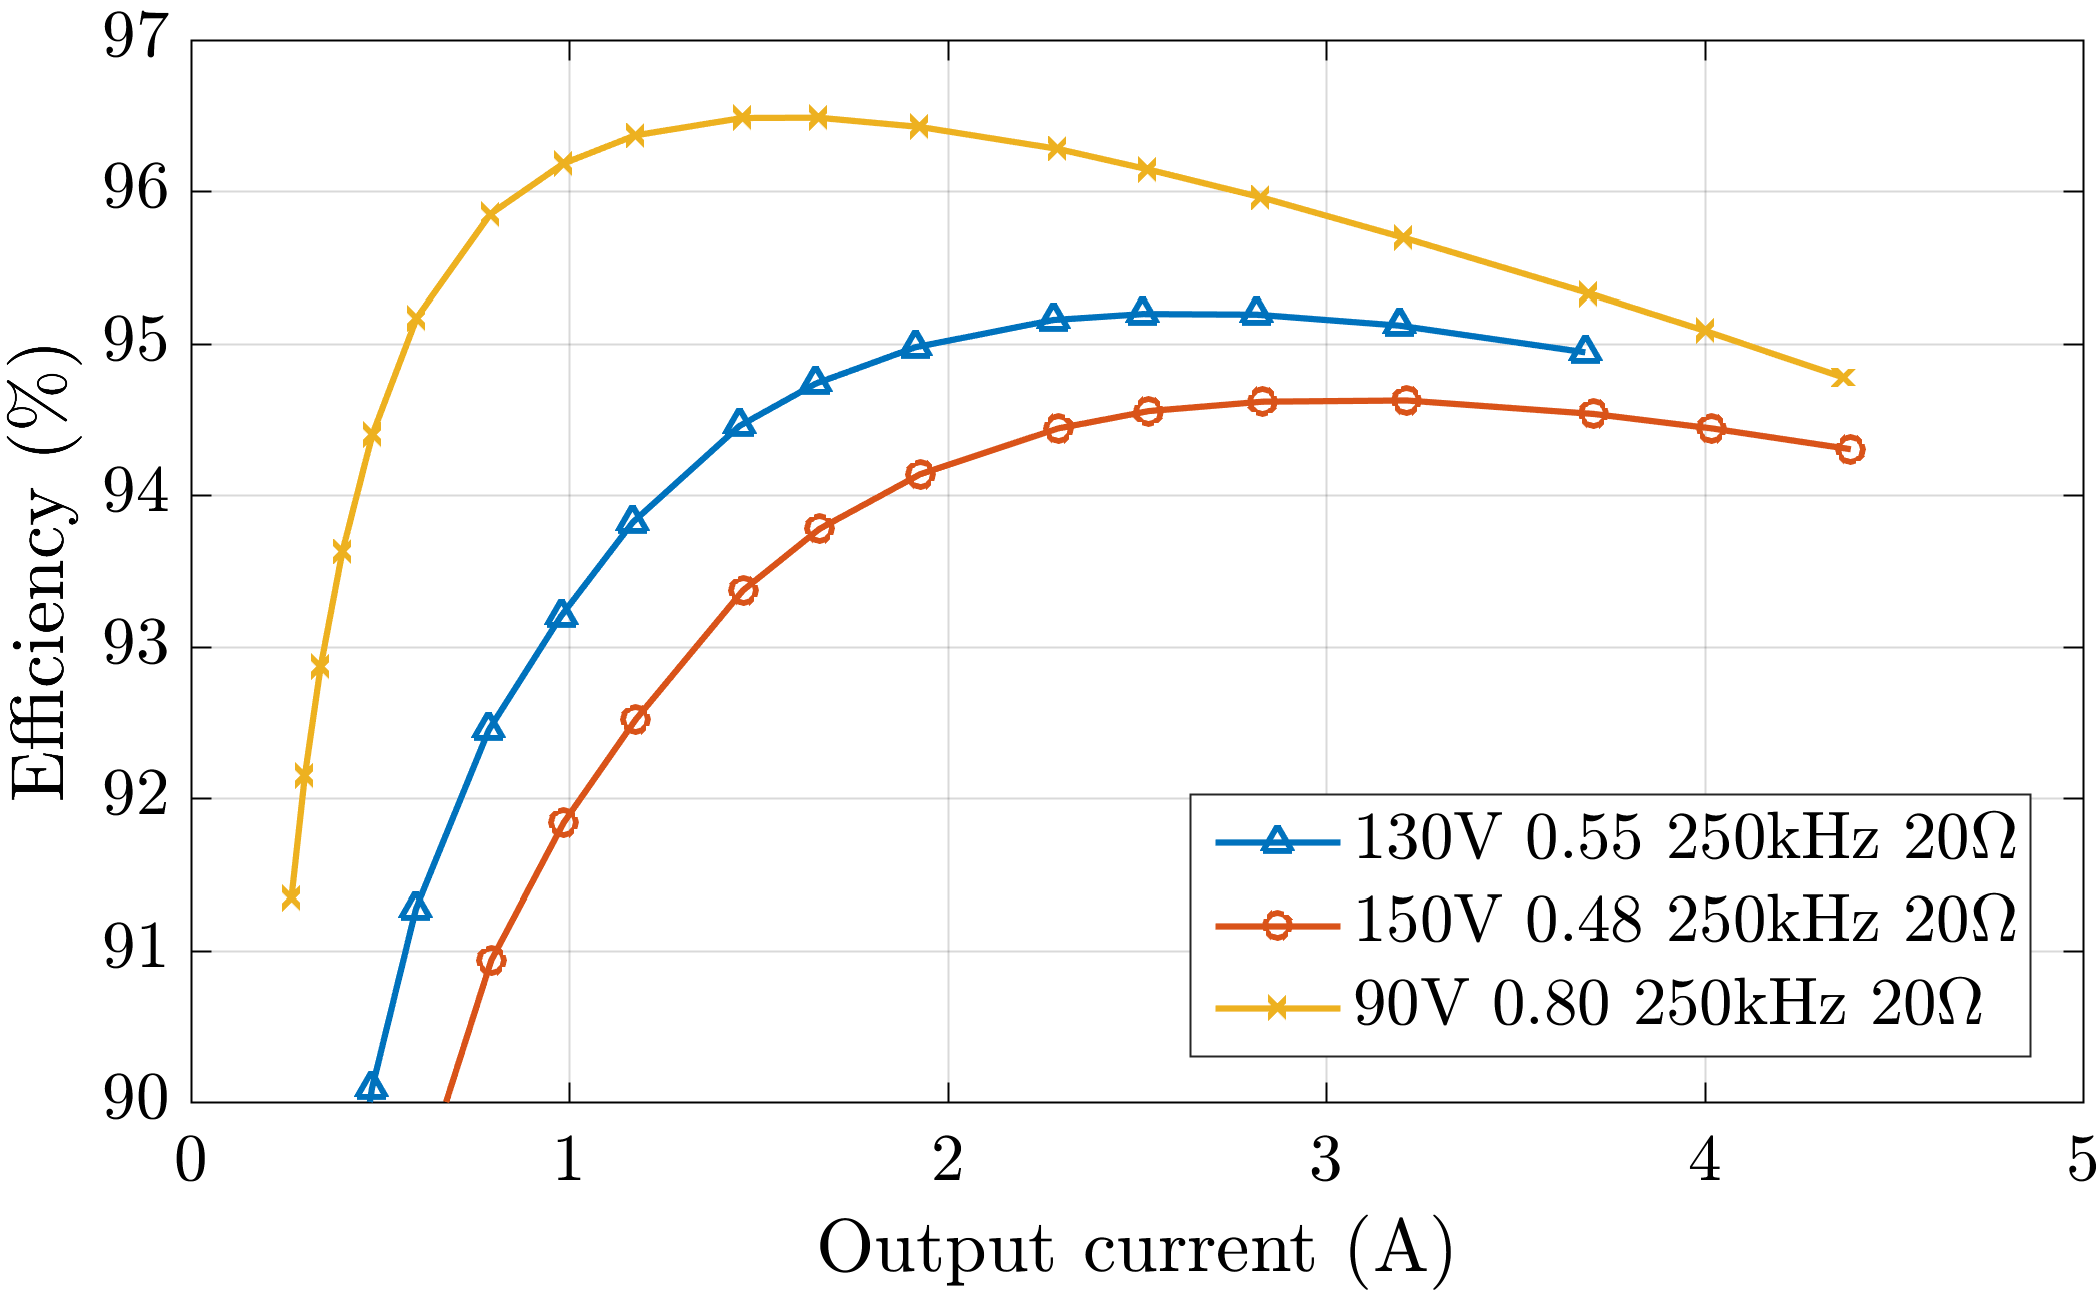
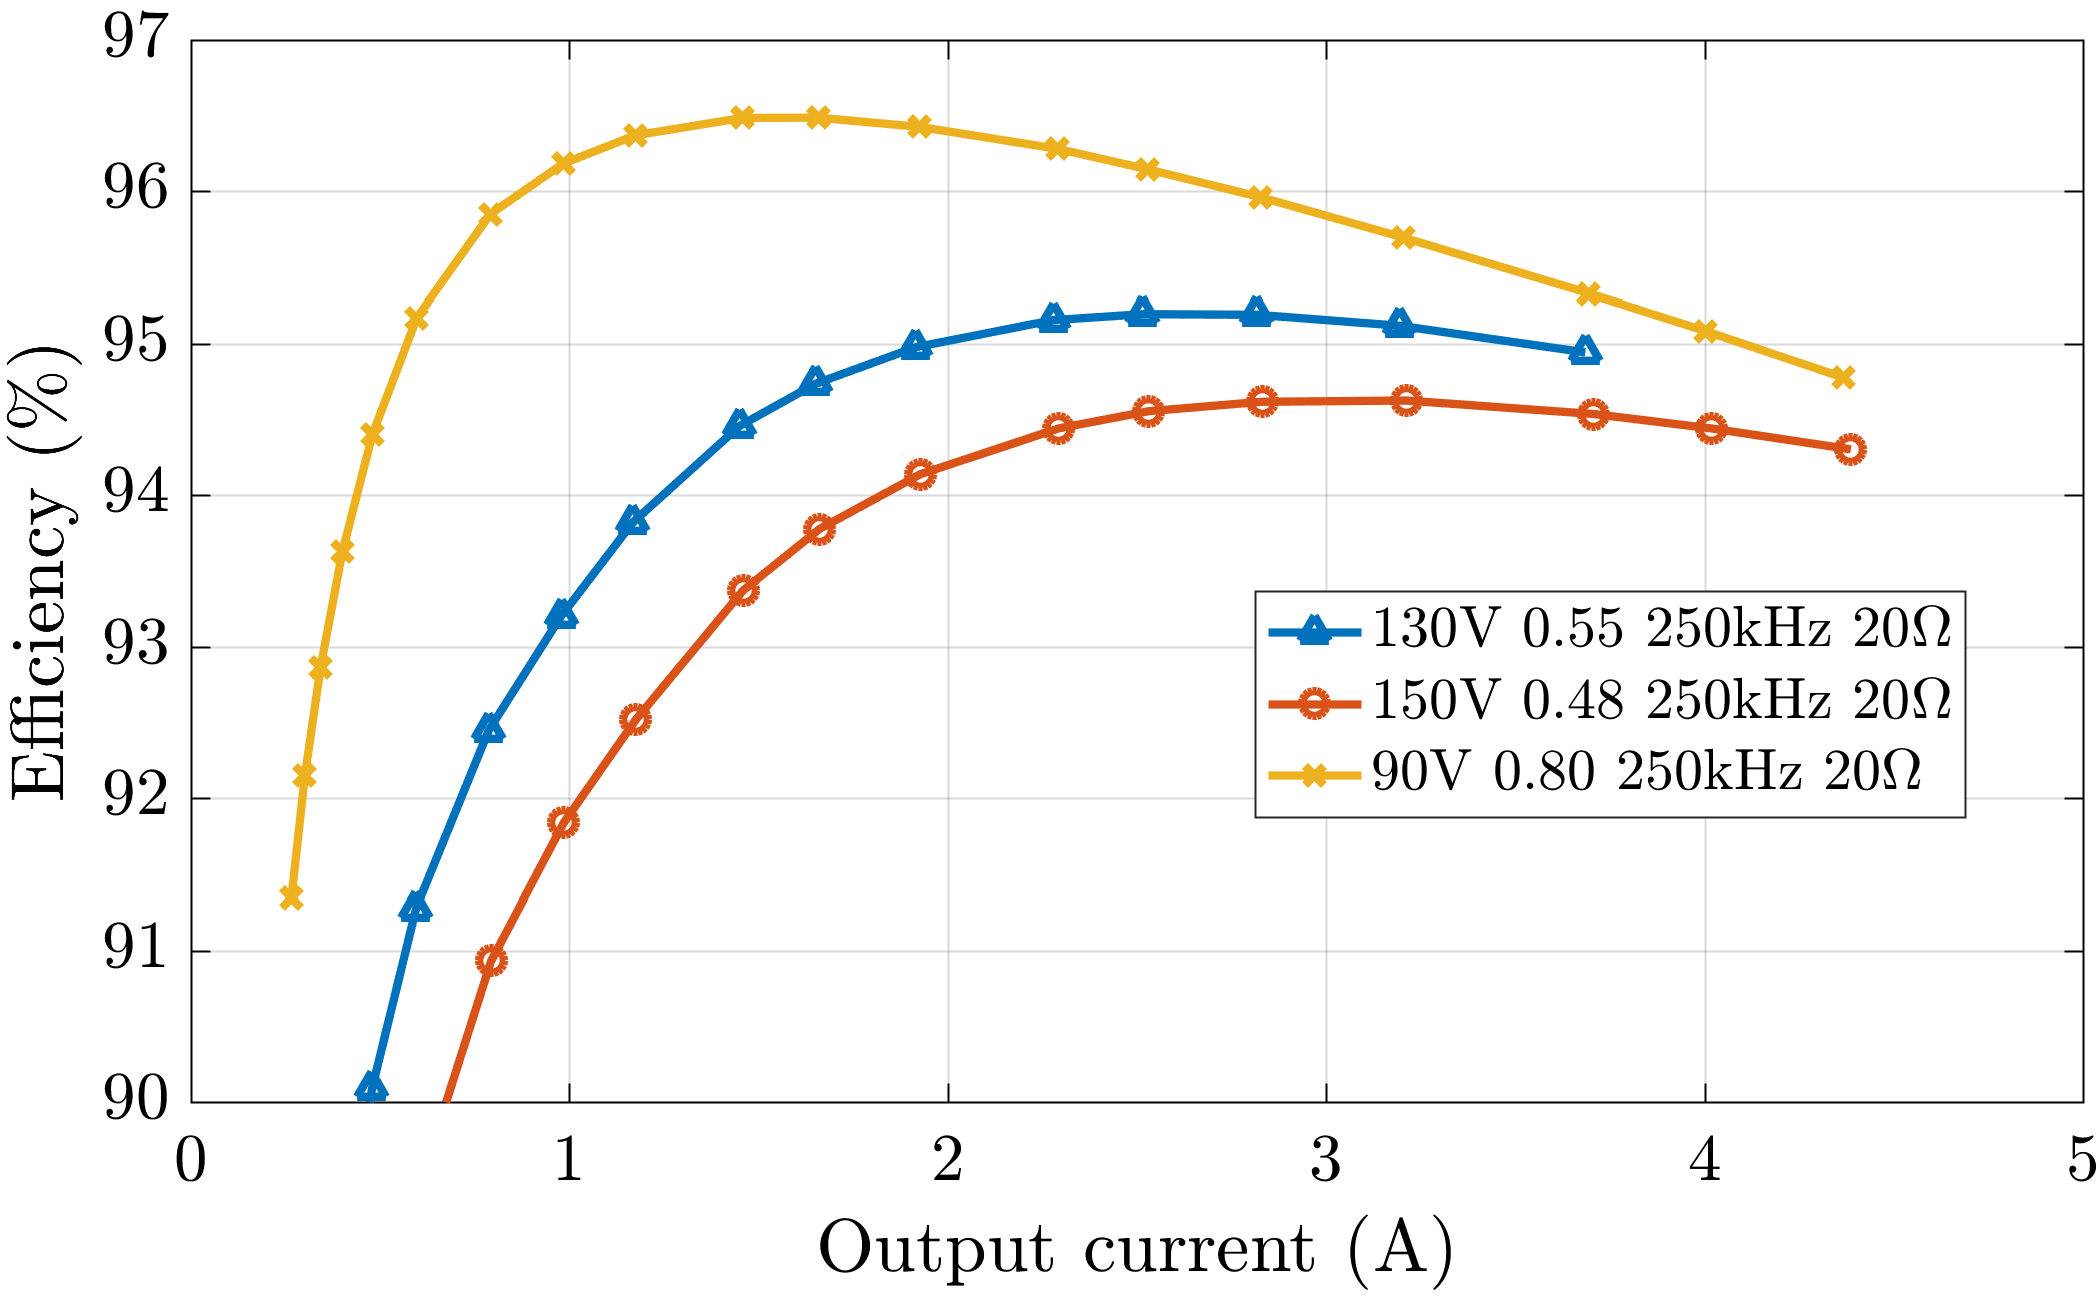
local commit

diff --git a/gpib_measurement/dickson/data/plot_efficiency_vs_deadtime.m b/gpib_measurement/dickson/data/plot_efficiency_vs_deadtime.m
@@ -3,7 +3,7 @@ close all
 clc
 scale = 2;
 set_figure_style_pre();
-plot_type = 'rout';
+plot_type = 'efficiency';
 inductor = '5600n';
 
     
